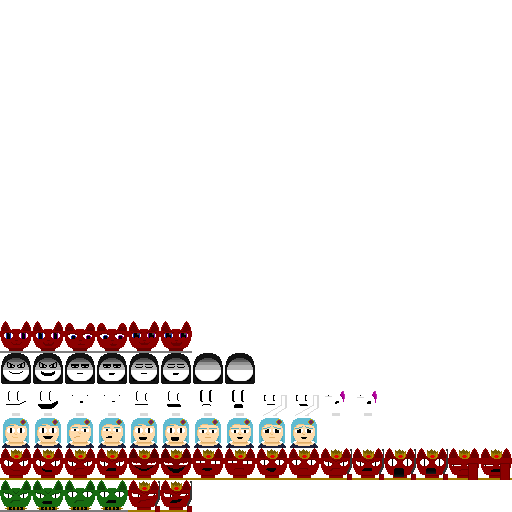
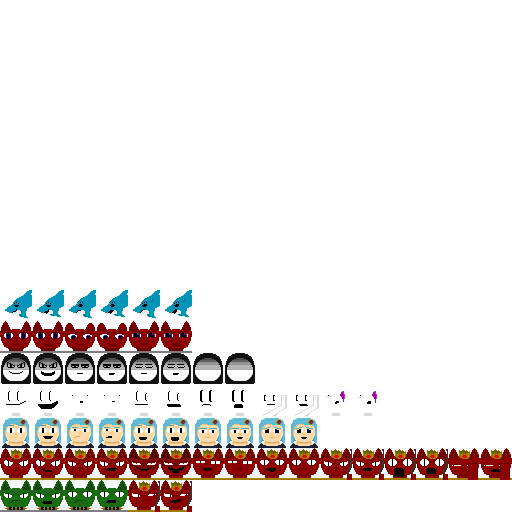
Work on Ocean

Changed region(s): [[0.0, 0.5625, 0.375, 0.625]]

diff --git a/Scripts/Areas/area-ocean.js b/Scripts/Areas/area-ocean.js
@@ -1,14 +1,14 @@
 
 class Area_Ocean extends Area {
 	constructor() {
-		super(Area_Ocean.text.flavor, ["Troll", "Sponge", "Door", "Decoy"], "fight");
+		super(Area_Ocean.text.flavor, ["Sponge", "Shark"], "fight");
 	}
 
 	getEvents() {
 
 		var events = [].concat(
-			[Area.fightChain],
-			[Area_Aorta.meetTroll1],
+			[Area_Ocean.firstStep],
+			[Area_Ocean.meetMortimer],
 			this.fillGrabBagThing(9),
 			[Area_Aorta.meetOscar],
 			this.fillGrabBagThing(9),
@@ -33,7 +33,7 @@ class Area_Ocean extends Area {
 	}
 
 	getBackgroundMusic() {
-		return "back";
+		return "ocean";
 	}
 
 	onStart() {
@@ -59,21 +59,49 @@ Area_Ocean.text = {
     flavor: [
         "Somehow you can breathe in this water.",
         "Even though you cannot see very far, this is some of the clearest water you have ever seen."
-    ],
-
-    intro: [
-        "You have just walked into an ocean.",
-        "You clutch at your throat, gasping for breath...",
-        "Except...",
-        "You can breathe.",
-        ["Hey, I forgot to tell you.",expr.emery.happy],
-        ["You can breathe the water."],
-        [""]
     ]
 }
 
 Area.registerArea(Area_Ocean);
 
 Area_Ocean.firstStep = Area.registerEvent(async function() {
-    
+    await new Writer(bottomWriter, [
+		"You have just walked into an ocean.",
+        "You clutch at your throat, gasping for breath...",
+        "Except...",
+        "You can breathe.",
+        ["Hey, I forgot to tell you.",expr.emery.happy],
+        ["You can breathe the water!"],
+		"...",
+		["This is the vast underground ocean."],
+		["It's full of dolphins!!!"],
+		["and sharks"],
+		["and they don't like eachother"],
+        "You push onward."
+	]).writeAllAsync();
+	DialogueTypewriter.clearAll();
+});
+
+Area_Ocean.meetMortimer = Area.registerEvent(async function() {
+	
+	new Writer(topWriter, ["HEEEEEELLLLLLPPP!!!!"]).write();
+
+	contentManager.clear();
+
+	var $a = $('<div class="monster"></div>');
+	var $marty = $('<canvas style="height:150%;width:150%;left:-25%;" id="marty"></canvas>');
+    $marty.appendTo($a);
+	var renderer = new SpriteRenderer($marty[0], "./Images/Ocean/dolphin.png", 64, 64);
+    renderer.onload = () => {renderer.setSprite(0, 0);};
+
+	contentManager.add($a);
+	await contentManager.approach(true);
+
+	await new Writer(bottomWriter, [
+		["They're afterrr meee!",expr.martimer.sad],
+		"!?!?!?",
+		["The SHARKS!!!"],
+	]).writeAllAsync();
+
+	currentBattle = new Battle("",[new Shark(), new Shark(), new Shark()],true);
 });

diff --git a/Scripts/monsters.js b/Scripts/monsters.js
@@ -882,6 +882,66 @@ class Reaper extends Monster {
     }
 }
 
+class Shark extends Monster {
+    constructor() {
+        super("Shark", 50, 0, 0.3);
+    }
+
+    async attack() {
+
+        // Has a normal attack
+        // Sometimes goes into a rage
+        return {text:"shorky shork"};
+    }
+
+    async hit(damage) {
+        this.h -= damage;
+        if (this.h <= 0) return true;
+        else {
+            // Sometimes gets angry
+            return false;
+        }
+    }
+
+    talk() {
+        // Add shark flavor text
+        return ["The fish makes indeterminate gurgles in response."];
+    }
+
+    magic() {
+        return "Sharks are too stupid to be affected by magic.";
+    }
+
+    inspect() {
+        // TODO: Shark inspect
+        var _this = this;
+        return [
+            { text: "Let's see...", aExpr: expr.emery.happy },
+            ["Shark:|Health is " + _this.h + "/50|Attack is 7"],
+            ["Sharks are known for their tempers.|When they get angry they deal double damage and use STRONG attacks."],
+            ["Maybe try to keep them calm???"]
+        ]
+    }
+
+    html(root) {
+        var $shark = $('<canvas style="height:150%;width:150%;left:-25%;" id="marty"></canvas>');
+        this.jobj = $shark;
+        this.canvas = $shark[0];
+        $shark.appendTo(root);
+
+        this.renderer = new SpriteRenderer($shark[0], "./Images/Ocean/shark.png", 64, 64);
+
+        var _this = this;
+        this.renderer.onload = () => {
+            _this.renderer.setSprite(0, 1);
+        };
+
+        this.breatheAnim = new CSSAnimation($shark, "trollPose").start();
+    }
+
+
+}
+
 class Skeleton extends Monster {
     constructor() {
         super("Generic Skeleton", 30, 2, 1);

diff --git a/Scripts/script.js b/Scripts/script.js
@@ -428,10 +428,10 @@ async function shiftKeys(event) {
 		case "N": {
 			// asynchronous context
 			file.set("IntroComplete", true);
-			area = new Area_Aorta();
+			area = new Area_Ocean();
 			StartMainGame();
-			await loadScript("monsters/darkness.js");
-			currentBattle = new Battle("darkness-fight", [new Darkness()], false);
+			//await loadScript("monsters/darkness.js");
+			//currentBattle = new Battle("darkness-fight", [new Darkness()], false);
 		}; break;
 	}
 }
@@ -567,10 +567,10 @@ function initIntro() {
 }
 
 function initSave() {
-	area = new Area_Aorta();
+	area = file.get("area", new Area_Aorta());
 	var events = file.get("events", null);
 	if (events !== null) area.events = events;
-	file.onSave = function () {
+	file.beforeSave = function () {
 		if (area.currentEvent != null) {
 			file.set("Steps-Left", file.get("Steps-Left") + 1);
 			file.set("events", [area.currentEvent].concat(area.events));
@@ -609,13 +609,16 @@ function init$() {
 	fetch("https://api.github.com/repos/iownbey/1000-steps/commits?sha=main&per_page=1").then(resp => resp.json())
 	.then((resp) => {
 		let commit = resp[0].commit;
-		$("#information").html(
+		let $info = $("#information");
+		$info.html(
 `-1000 Steps-
 Shift+F to toggle fullscreen.
 Shift+S to save.
 Shift+L to load.
 Last Commit on ${new Date(commit.author.date).toDateString()} by ${commit.author.name}: ${commit.message}`
 );
+		$info.css("opacity","1");
+		setTimeout(()=>{$info.css("transition","default")},2000);
 	})
 
 	healthPopIn = new PopIn($health);

diff --git a/Scripts/text.js b/Scripts/text.js
@@ -45,6 +45,11 @@ ex.oscar.happy = faceHandler.registerExpression(1, 6);
 ex.oscar.sad   = faceHandler.registerExpression(3, 6);
 ex.oscar.superhappy   = faceHandler.registerExpression(5, 6);
 
+ex.martimer = {};
+ex.martimer.happy = faceHandler.registerExpression(1,7);
+ex.martimer.sad = faceHandler.registerExpression(3,7);
+ex.martimer.angry = faceHandler.registerExpression(5,7);
+
 const expr = Object.freeze(ex);
 delete ex;
 

diff --git a/Scripts/classes.js b/Scripts/classes.js
@@ -1733,6 +1733,9 @@ class Writer {
 		this.break = this.complete;
 	}
 
+	/**
+	 * @param {function} value
+	 */
 	set letterCallback(value) {
 		this.typewriter.letterCallback = value;
 	}
@@ -1745,6 +1748,10 @@ class Writer {
 		if (next === text.break)
 		{
 			this.break = true;
+		}
+		else if (typeof(next) === "function")
+		{
+			next();
 		}
 		else
 		{
